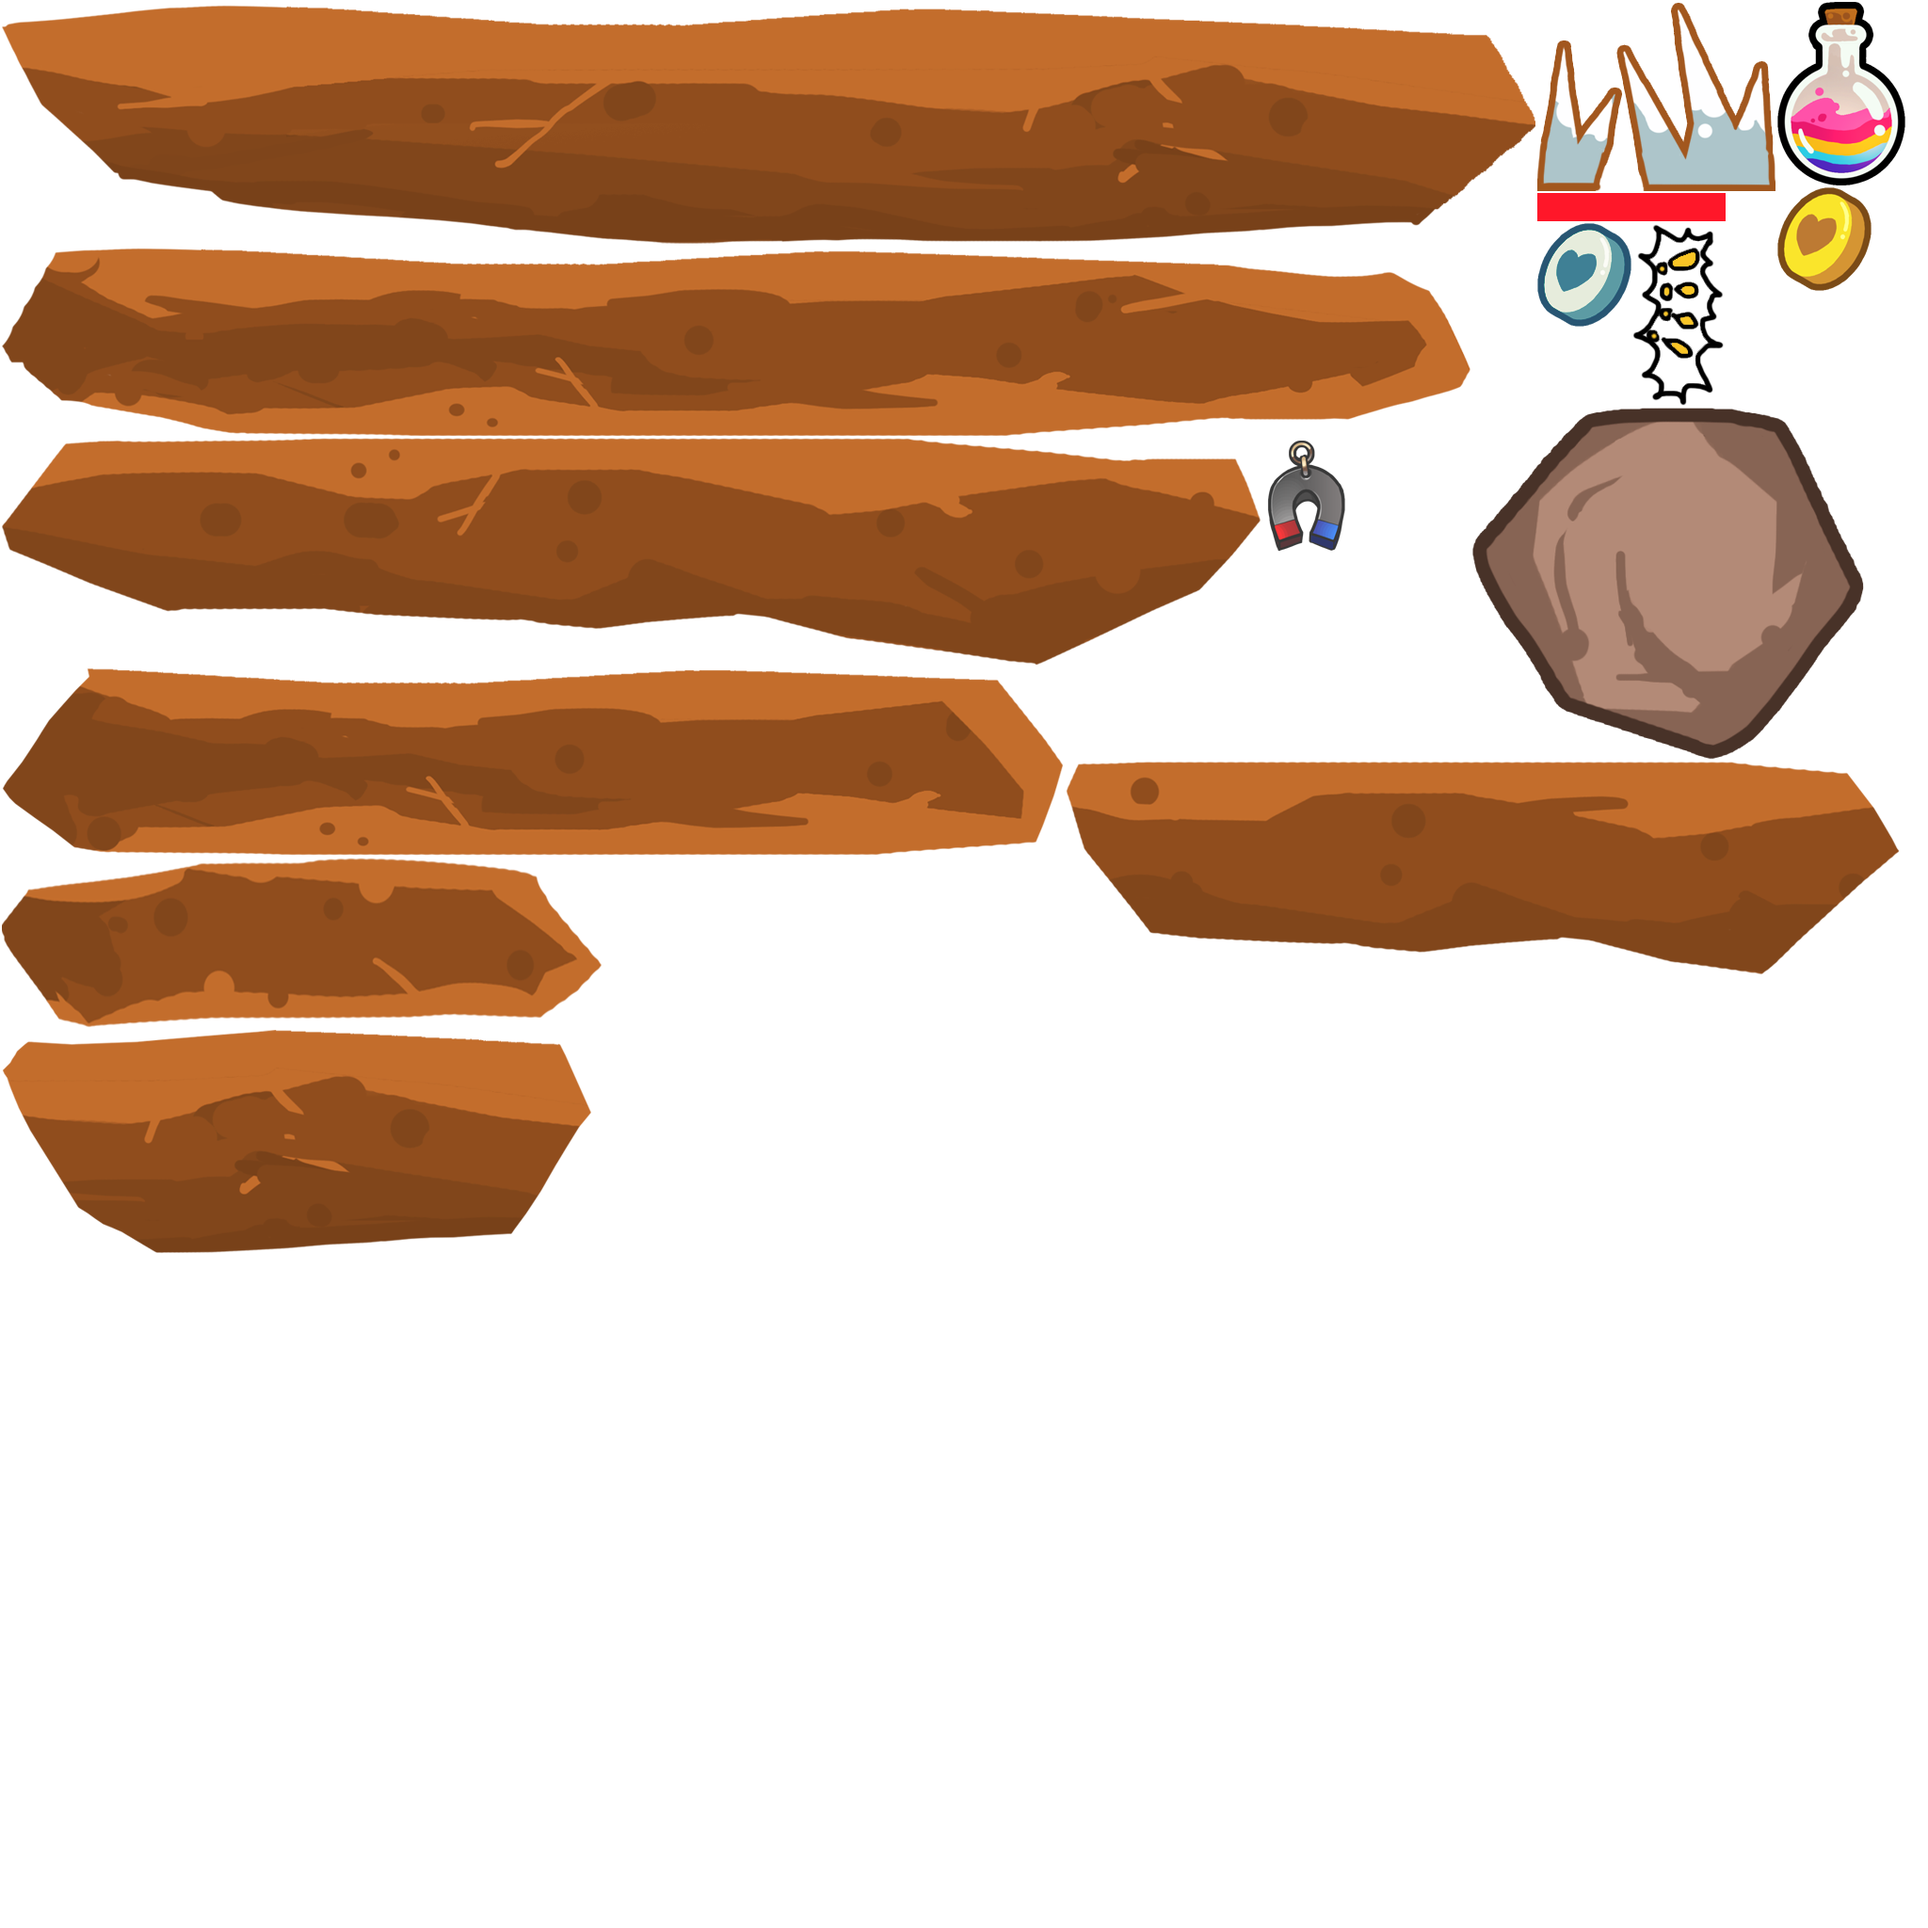
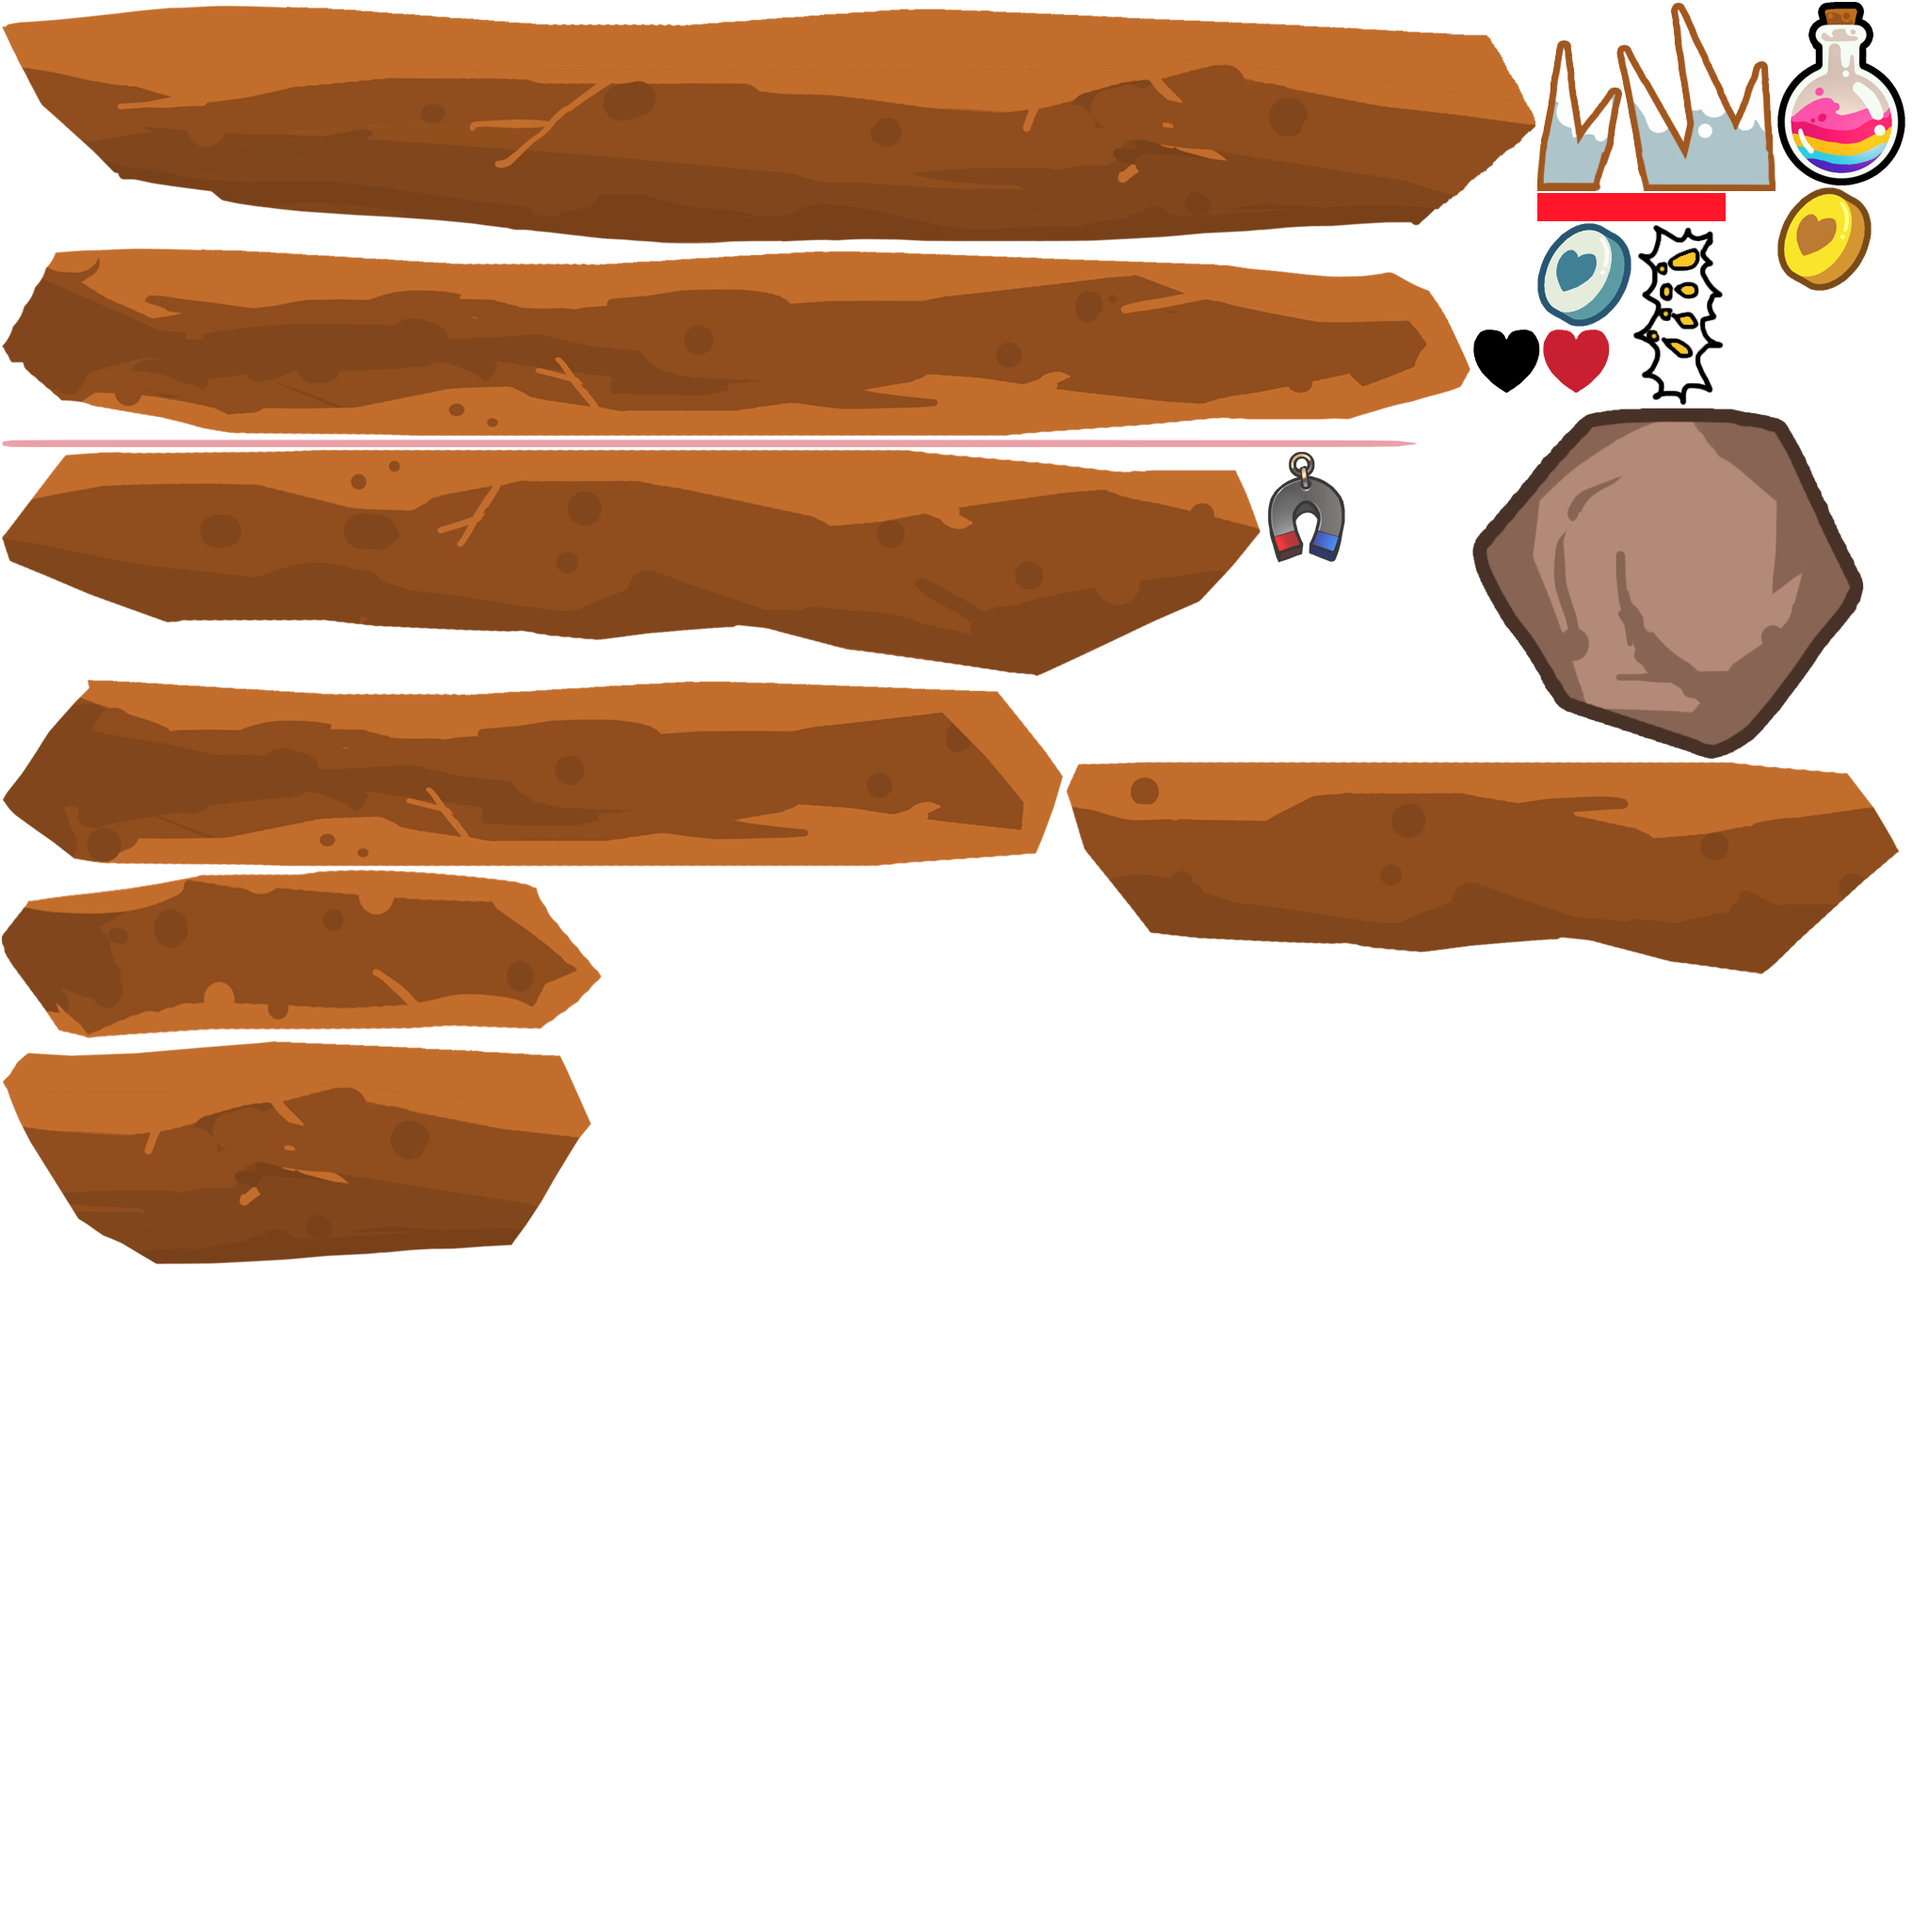
修改资源，增加预警

Changed region(s): [[0.0, 0.3125, 0.625, 0.6562], [0.0, 0.2188, 0.7188, 0.3125], [0.75, 0.1562, 0.8438, 0.2188]]

diff --git a/LibSouSouSou/DynamicObject.mm b/LibSouSouSou/DynamicObject.mm
@@ -10,6 +10,13 @@
 #include "common.h"
 #import "GameBase.h"
 #import "GameSouSouSouLevel.h"
+@implementation RockWarning
+-(void) update:(float)delta_time
+{
+}
+
+@end
+
 @implementation FallenRock
 
 -(id) init_with_spawn_params:(NSDictionary *)params

diff --git a/LibSouSouSou/DynamicObject.h b/LibSouSouSou/DynamicObject.h
@@ -8,6 +8,9 @@
 
 #import "PlatformBase.h"
 
+@interface RockWarning : SpriteBase
+-(void) update:(float)delta_time;
+@end
 @interface FallenRock : PlatformBase
 {
     float m_fall_speed;
